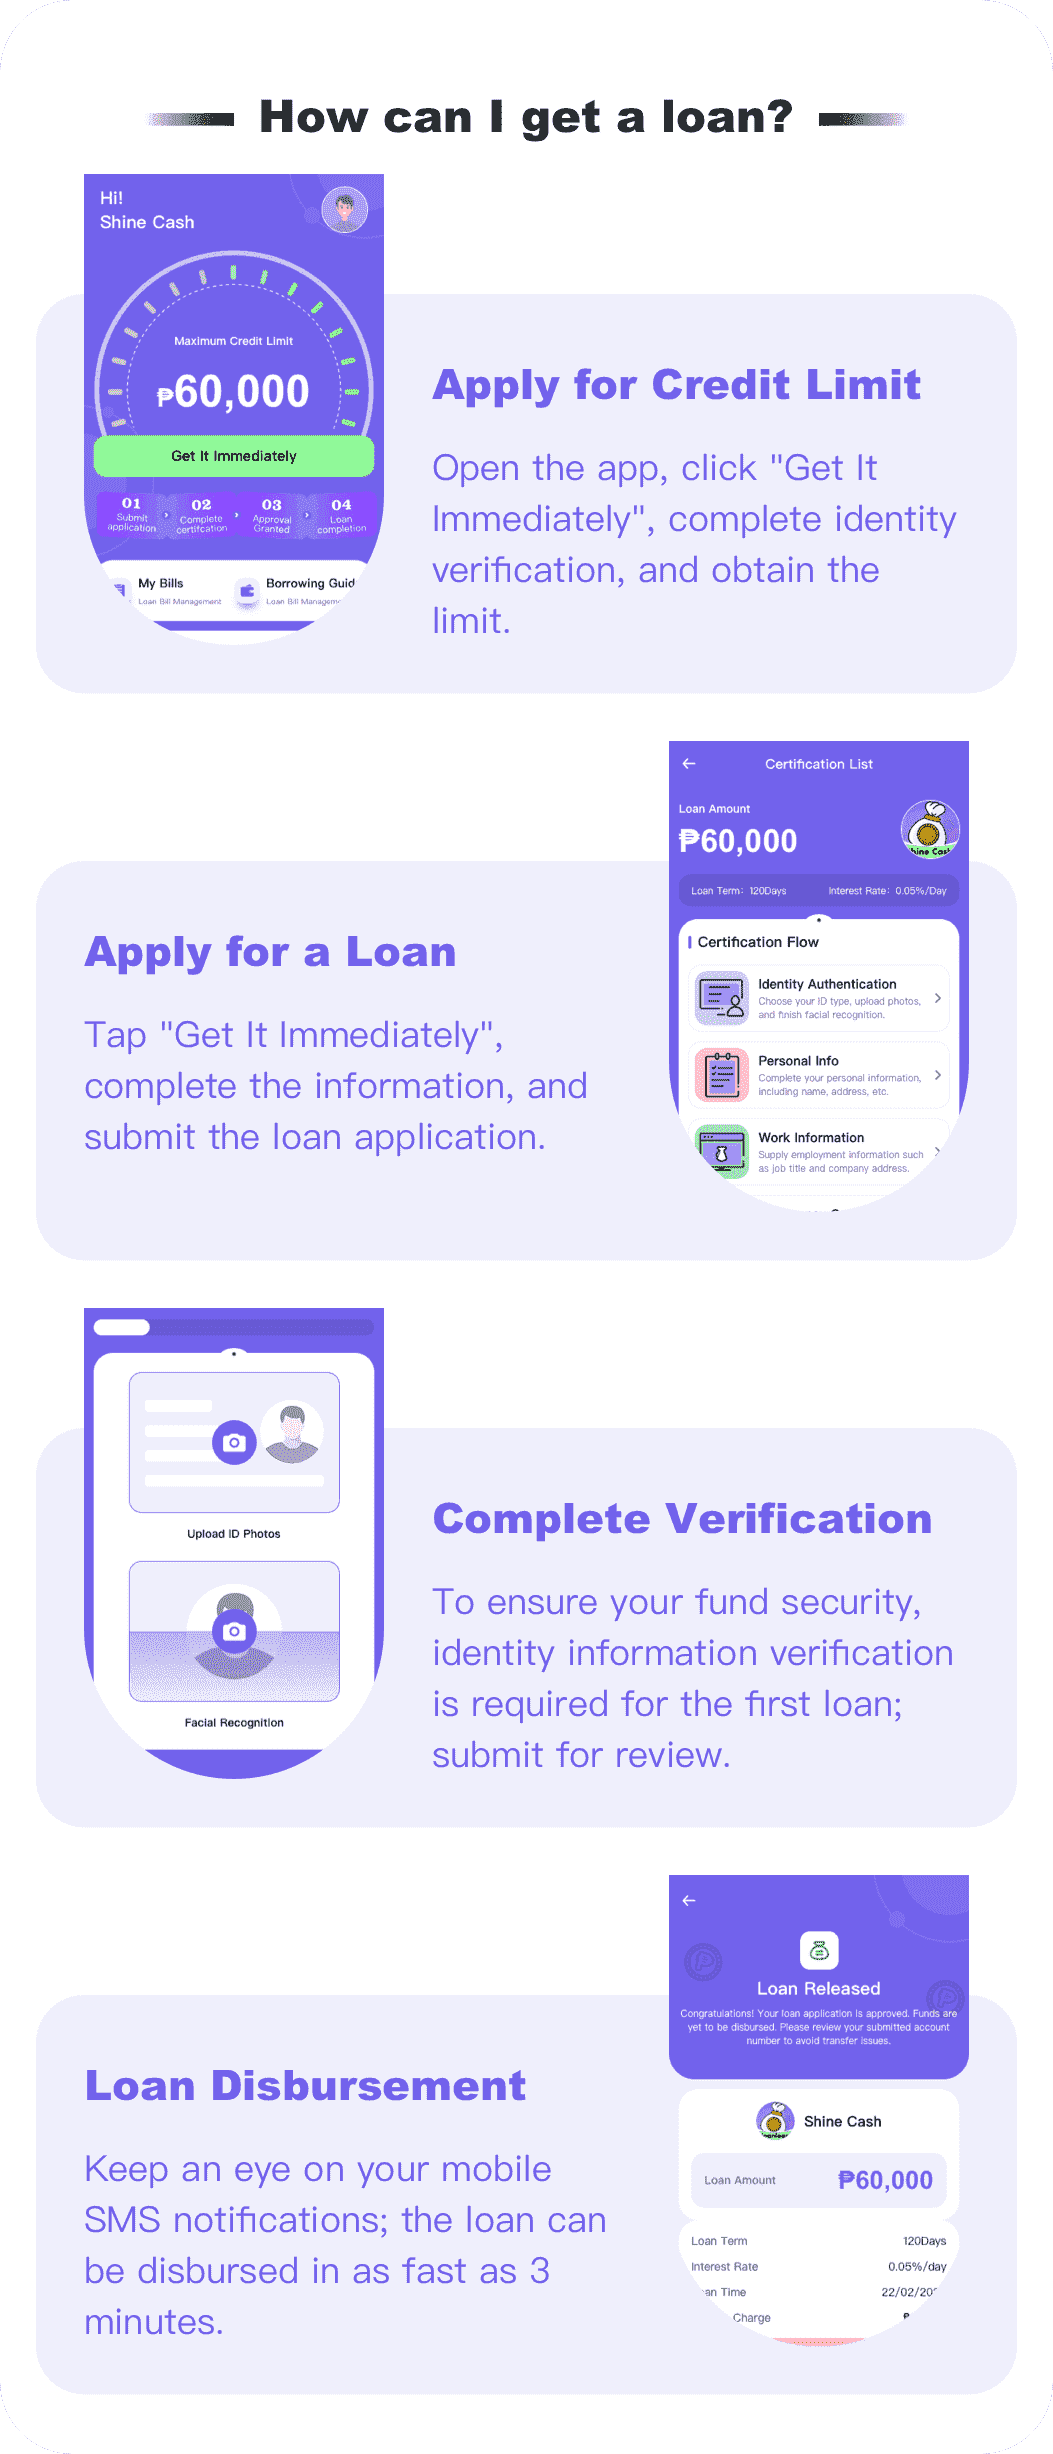
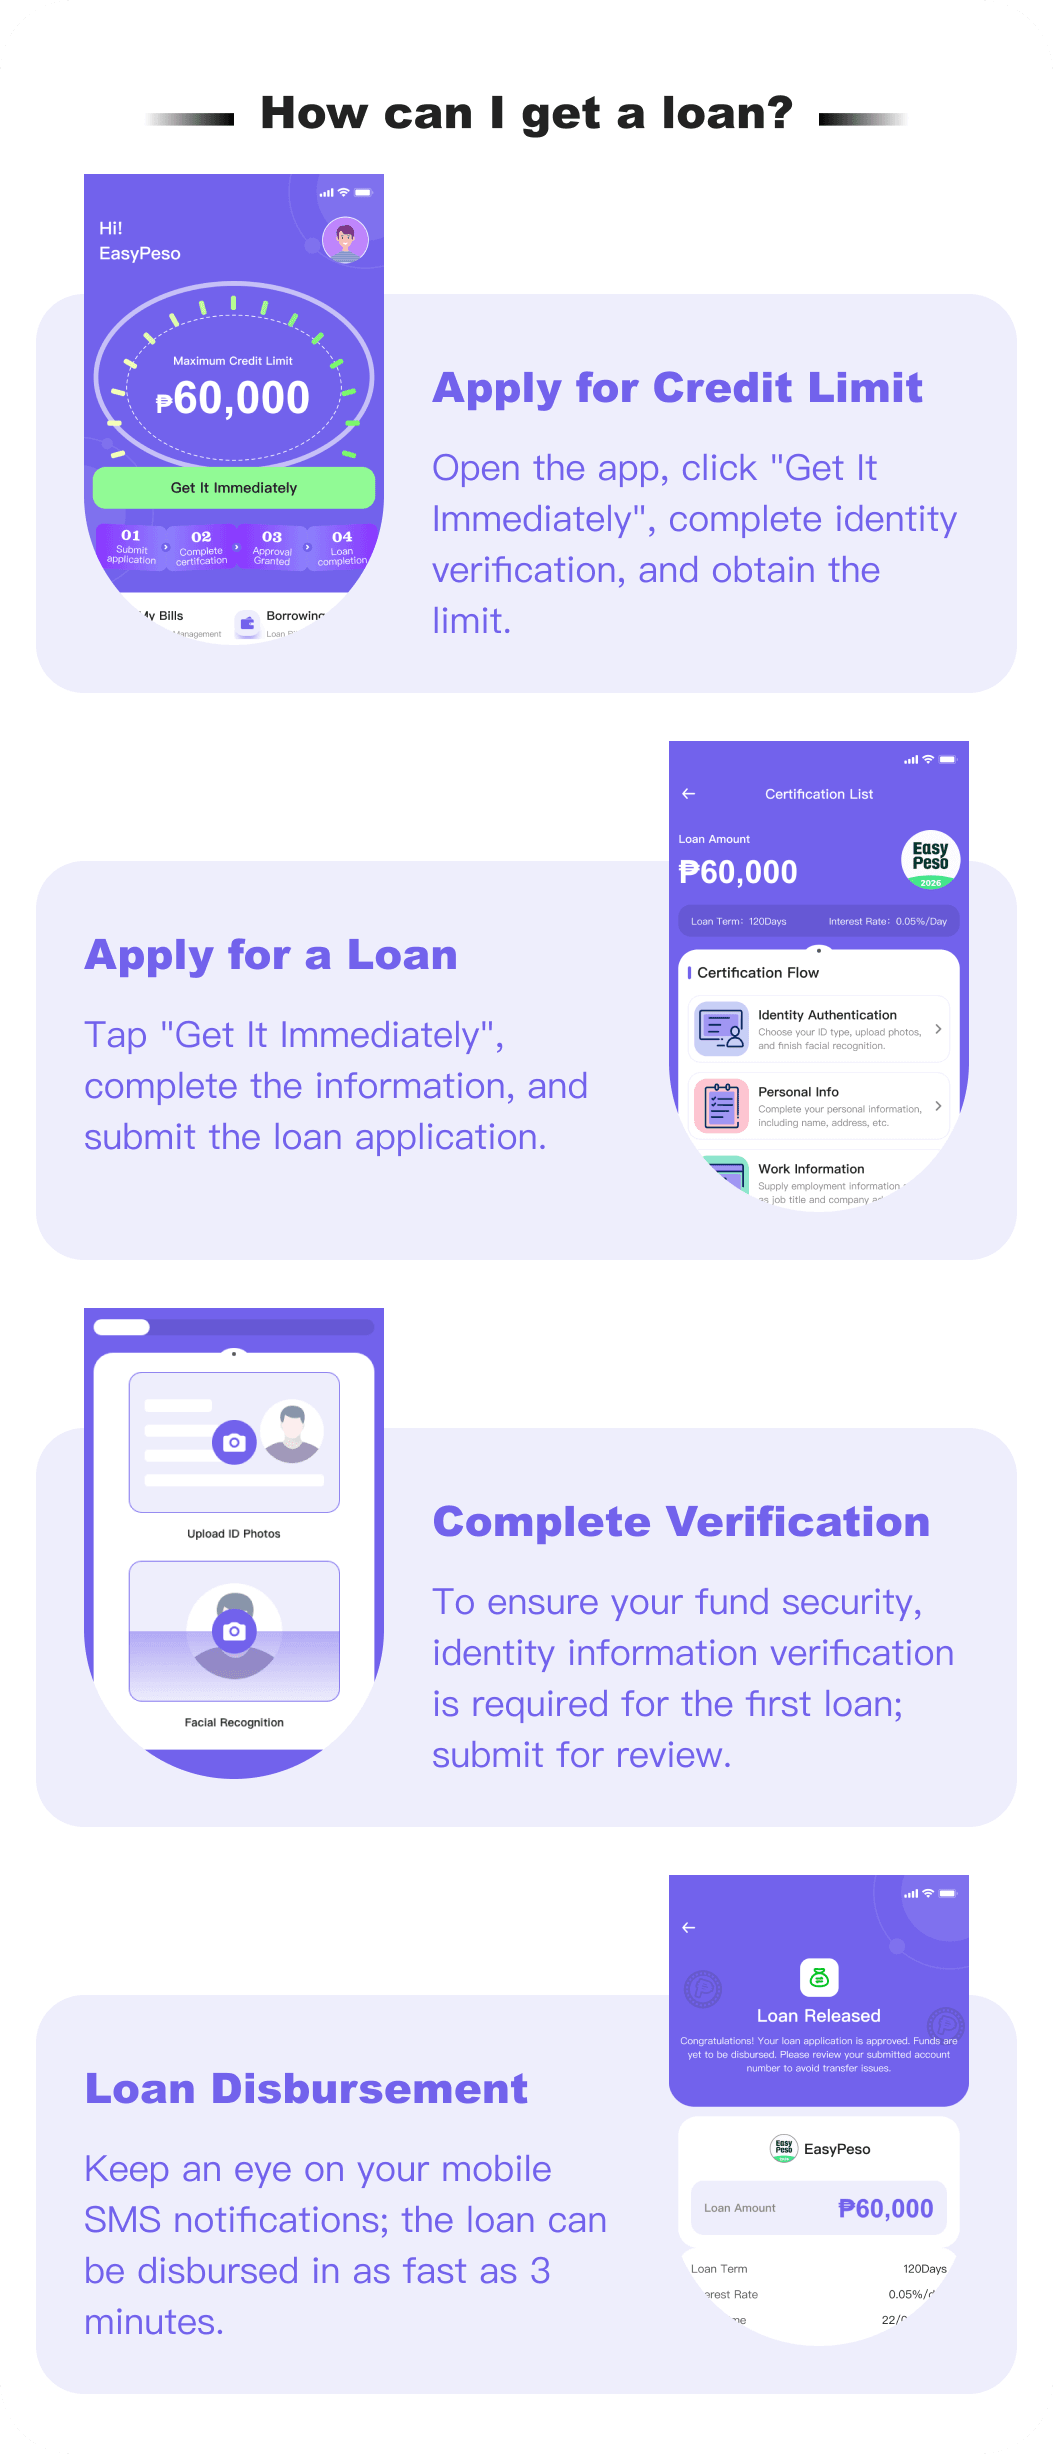
fix-ui-page

diff --git a/lib/features/login/login_view.dart b/lib/features/login/login_view.dart
@@ -95,7 +95,7 @@ Widget _loginView(LoginController controller) {
                           ),
                         ),
                         Text(
-                          'ShineCash',
+                          'EasyPeso',
                           style: TextStyle(
                             fontSize: 24.sp,
                             fontWeight: FontWeight.w600,
